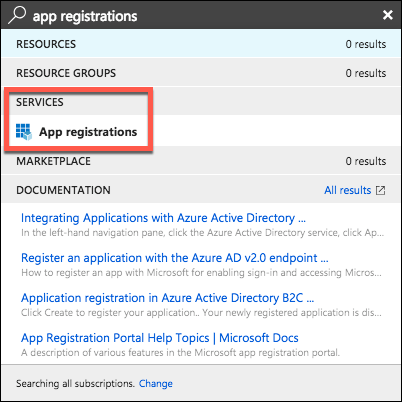
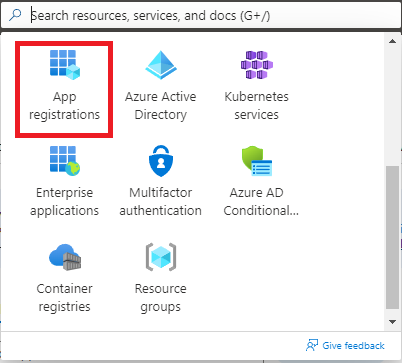
Adding new screenshots, removing old UI pngs

diff --git a/content/rancher/v2.6/en/admin-settings/authentication/azure-ad/_index.md b/content/rancher/v2.6/en/admin-settings/authentication/azure-ad/_index.md
@@ -3,13 +3,234 @@ title: Configuring Azure AD
 weight: 1115
 ---
 
-If you have an instance of Active Directory (AD) hosted in Azure, you can configure Rancher to allow your users to log in using their AD accounts. Configuration of Azure AD external authentication requires you to make configurations in both Azure and Rancher.
+{{% tabs %}}
+{{% tab "Rancher v2.6.0 - v2.6.6" %}}
 
->**Note:** Azure AD integration only supports Service Provider initiated logins.
+## Using Azure AD Graph API 
+
+>**Important:** Rancher now uses the Microsoft Graph API rather than the Azure AD Graph API. Please note that the Azure AD Graph API will be retired at the end of 2022.
+
+If you have an instance of Active Directory (AD) hosted in Azure, you can configure Rancher to allow your users to log in using their AD accounts. Configuration of Azure AD external authentication requires you to make configurations in both Azure and Rancher.
 
 >**Prerequisite:** Have an instance of Azure AD configured.
 
->**Note:** Most of this procedure takes place from the [Microsoft Azure Portal](https://portal.azure.com/).
+>**Notes:**
+>
+>- Azure AD integration only supports Service Provider initiated logins.
+>- Most of this procedure takes place from the [Microsoft Azure Portal](https://portal.azure.com/).
+
+## Azure Active Directory Configuration Outline
+
+Configuring Rancher to allow your users to authenticate with their Azure AD accounts involves multiple procedures. Review the outline below before getting started.
+
+<a id="tip"></a>
+
+>**Tip:** Before you start, we recommend creating an empty text file. You can use this file to copy values from Azure that you'll paste into Rancher later.
+
+<!-- TOC -->
+
+- [1. Register Rancher with Azure](#1-register-rancher-with-azure)
+- [2. Create a new client secret](#2-create-a-new-client-secret)
+- [3. Set Required Permissions for Rancher](#3-set-required-permissions-for-rancher)
+- [4. Add a Reply URL](#4-add-a-reply-url)
+- [5. Copy Azure Application Data](#5-copy-azure-application-data)
+- [6. Configure Azure AD in Rancher](#6-configure-azure-ad-in-rancher)
+
+<!-- /TOC -->
+
+### 1. Register Rancher with Azure
+
+Before enabling Azure AD within Rancher, you must register Rancher with Azure.
+
+1. Log in to [Microsoft Azure](https://portal.azure.com/) as an administrative user. Configuration in future steps requires administrative access rights.
+
+1. Use search to open the **App registrations** service.
+
+    ![Open App Registrations]({{<baseurl>}}/img/rancher/search-app-registrations.png)
+
+1. Click **New registrations** and complete the **Create** form.
+
+    ![New App Registration]({{<baseurl>}}/img/rancher/new-app-registration.png)
+
+    1. Enter a **Name** (something like `Rancher`).
+
+    1. From **Supported account types**, select "Accounts in this organizational directory only (AzureADTest only - Single tenant)" This corresponds to the legacy app registration options.
+
+    1. In the **Redirect URI** section, make sure **Web** is selected from the dropdown and enter the URL of your Rancher Server in the text box next to the dropdown. This Rancher server URL should be appended with the verification path: `<MY_RANCHER_URL>/verify-auth-azure`.
+
+        >**Tip:** You can find your personalized Azure reply URL in Rancher on the Azure AD Authentication page (Global View > Security Authentication > Azure AD).
+
+    1. Click **Register**.
+
+>**Important to Note:** It can take up to five minutes for this change to take affect, so don't be alarmed if you can't authenticate immediately after Azure AD configuration.
+
+### 2. Create a new client secret
+
+From the Azure portal, create a client secret. Rancher will use this key to authenticate with Azure AD.
+
+1. Use search to open **App registrations** services. Then open the entry for Rancher that you created in the last procedure.
+
+     ![Open Rancher Registration]({{<baseurl>}}/img/rancher/open-rancher-app.png)
+
+1. From the navigation pane on left, click **Certificates and Secrets**.
+
+1. Click **New client secret**.
+
+     ![Create new client secret]({{< baseurl >}}/img/rancher/select-client-secret.png)
+
+    1. Enter a **Description** (something like `Rancher`).
+
+    1. Select duration for the key from the options under **Expires**. This drop-down sets the expiration date for the key. Shorter durations are more secure, but require you to create a new key after expiration.
+
+    1. Click **Add** (you don't need to enter a value—it will automatically populate after you save).
+<a id="secret"></a>
+
+1.  Copy the key value and save it to an [empty text file](#tip).
+
+    You'll enter this key into the Rancher UI later as your **Application Secret**.
+
+    You won't be able to access the key value again within the Azure UI.
+
+### 3. Set Required Permissions for Rancher
+
+Next, set API permissions for Rancher within Azure.
+
+1. From the navigation pane on left, select **API permissions**.
+
+    ![Open Required Permissions]({{<baseurl>}}/img/rancher/select-required-permissions.png)
+
+1. Click **Add a permission**.
+
+1. From the **Azure Active Directory Graph**, select the following **Delegated Permissions**:
+
+    ![Select API Permissions]({{< baseurl >}}/img/rancher/select-required-permissions-2.png)
+
+    <br/>
+    <br/>
+    - **Access the directory as the signed-in user**
+    - **Read directory data**
+    - **Read all groups**
+    - **Read all users' full profiles**
+    - **Read all users' basic profiles**
+    - **Sign in and read user profile**
+
+1. Click **Add permissions**.
+
+1. From **API permissions**, click **Grant admin consent**. Then click **Yes**.
+
+    >**Note:** You must be signed in as an Azure administrator to successfully save your permission settings.
+
+
+### 4. Add a Reply URL
+
+To use Azure AD with Rancher you must whitelist Rancher with Azure. You can complete this whitelisting by providing Azure with a reply URL for Rancher, which is your Rancher Server URL followed with a verification path.
+
+
+1. From the **Setting** blade, select **Reply URLs**.
+
+    ![Azure: Enter Reply URL]({{<baseurl>}}/img/rancher/enter-azure-reply-url.png)
+
+1. From the **Reply URLs** blade, enter the URL of your Rancher Server, appended with the verification path: `<MY_RANCHER_URL>/verify-auth-azure`.
+
+       >**Tip:** You can find your personalized Azure reply URL in Rancher on the Azure AD Authentication page (Global View > Security Authentication > Azure AD).
+
+1. Click **Save**.
+
+**Result:** Your reply URL is saved.
+
+>**Note:** It can take up to five minutes for this change to take affect, so don't be alarmed if you can't authenticate immediately after Azure AD configuration.
+
+### 5. Copy Azure Application Data
+
+As your final step in Azure, copy the data that you'll use to configure Rancher for Azure AD authentication and paste it into an empty text file.
+
+1. Obtain your Rancher **Tenant ID**.
+
+    1. Use search to open the **Azure Active Directory** service.
+
+         ![Open Azure Active Directory]({{<baseurl>}}/img/rancher/search-azure-ad.png)
+
+    1. From the left navigation pane, open **Overview**.
+
+    2. Copy the **Directory ID** and paste it into your [text file](#tip).
+
+        You'll paste this value into Rancher as your **Tenant ID**.
+
+1. Obtain your Rancher **Application ID**.
+
+    1. Use search to open **App registrations**.
+
+         ![Open App Registrations]({{<baseurl>}}/img/rancher/search-app-registrations.png)
+
+    1. Find the entry you created for Rancher.
+
+    1. Copy the **Application ID** and paste it to your [text file](#tip).
+
+1. Obtain your Rancher **Graph Endpoint**, **Token Endpoint**, and **Auth Endpoint**.
+
+    1. From **App registrations**, click **Endpoints**.
+
+        ![Click Endpoints]({{<baseurl>}}/img/rancher/click-endpoints.png)
+
+    2. Copy the following endpoints to your clipboard and paste them into your [text file](#tip) (these values will be your Rancher endpoint values).
+    
+        - **Microsoft Graph API endpoint** (Graph Endpoint)
+        - **OAuth 2.0 token endpoint (v1)** (Token Endpoint)
+        - **OAuth 2.0 authorization endpoint (v1)** (Auth Endpoint)
+        
+>**Note:** Copy the v1 version of the endpoints
+
+### 6. Configure Azure AD in Rancher
+
+From the Rancher UI, enter information about your AD instance hosted in Azure to complete configuration.
+
+Enter the values that you copied to your [text file](#tip).
+
+1. Log into Rancher.
+1.	In the top left corner, click **☰ > Users & Authentication**.
+1. In the left navigation menu, click **Auth Provider**.
+1. Click **AzureAD**.
+1. Complete the **Configure Azure AD Account** form using the information you copied while completing [Copy Azure Application Data](#5-copy-azure-application-data).
+
+    >**Important:** When entering your Graph Endpoint, remove the tenant ID from the URL, like below.
+    >
+    ><code>http<span>s://g</span>raph.windows.net/<del>abb5adde-bee8-4821-8b03-e63efdc7701c</del></code>
+
+    The following table maps the values you copied in the Azure portal to the fields in Rancher.
+
+    | Rancher Field      | Azure Value                           |
+    | ------------------ | ------------------------------------- |
+    | Tenant ID          | Directory ID                          |
+    | Application ID     | Application ID                        |
+    | Application Secret | Key Value                             |
+    | Endpoint           | https://login.microsoftonline.com/    |
+    | Graph Endpoint     | Microsoft Azure AD Graph API Endpoint |
+    | Token Endpoint     | OAuth 2.0 Token Endpoint              |
+    | Auth Endpoint      | OAuth 2.0 Authorization Endpoint      |
+
+1. Click **Enable**.
+
+**Result:** Azure Active Directory authentication is configured.
+
+## Migration of Deprecated Steps
+
+The steps below will assist you in upgrading Rancher in order to user the new API.
+
+
+
+{{% /tab %}}
+{{% tab "Rancher 2.6.7+" %}}
+
+## Using Microsoft Graph API 
+
+If you have an instance of Active Directory (AD) hosted in Azure, you can configure Rancher to allow your users to log in using their AD accounts. Configuration of Azure AD external authentication requires you to make configurations in both Azure and Rancher.
+
+>**Prerequisite:** Have an instance of Azure AD configured.
+
+>**Notes:**
+>
+>- Azure AD integration only supports Service Provider initiated logins.
+>- Most of this procedure takes place from the [Microsoft Azure Portal](https://portal.azure.com/).
 
 ## Azure Active Directory Configuration Outline
 
@@ -203,3 +424,6 @@ Enter the values that you copied to your [text file](#tip).
 1. Click **Enable**.
 
 **Result:** Azure Active Directory authentication is configured.
+
+{{% /tab %}}
+{{% /tabs %}}
